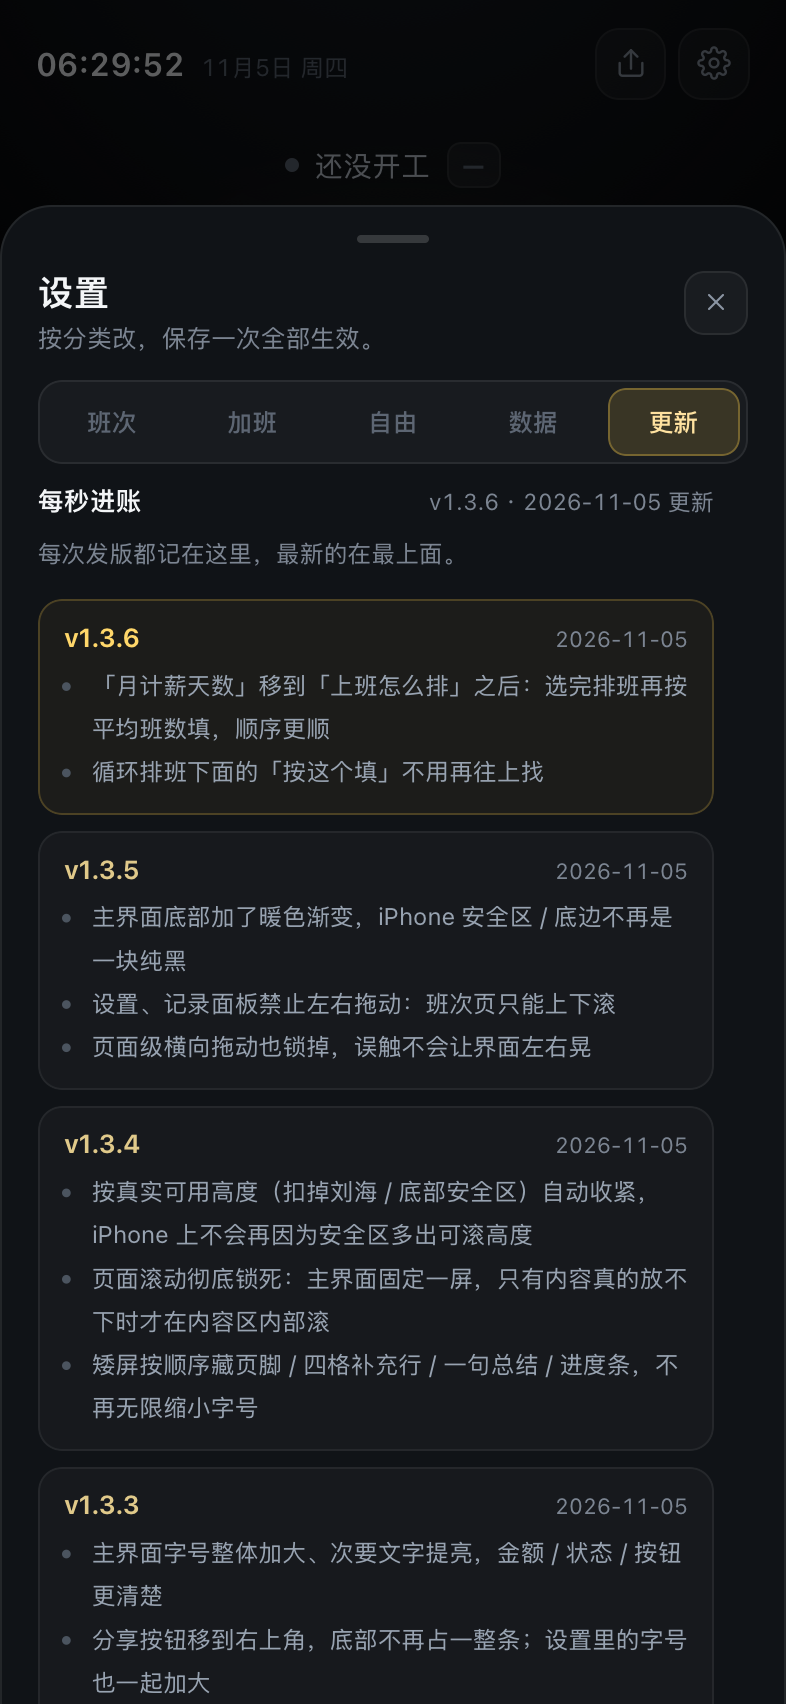
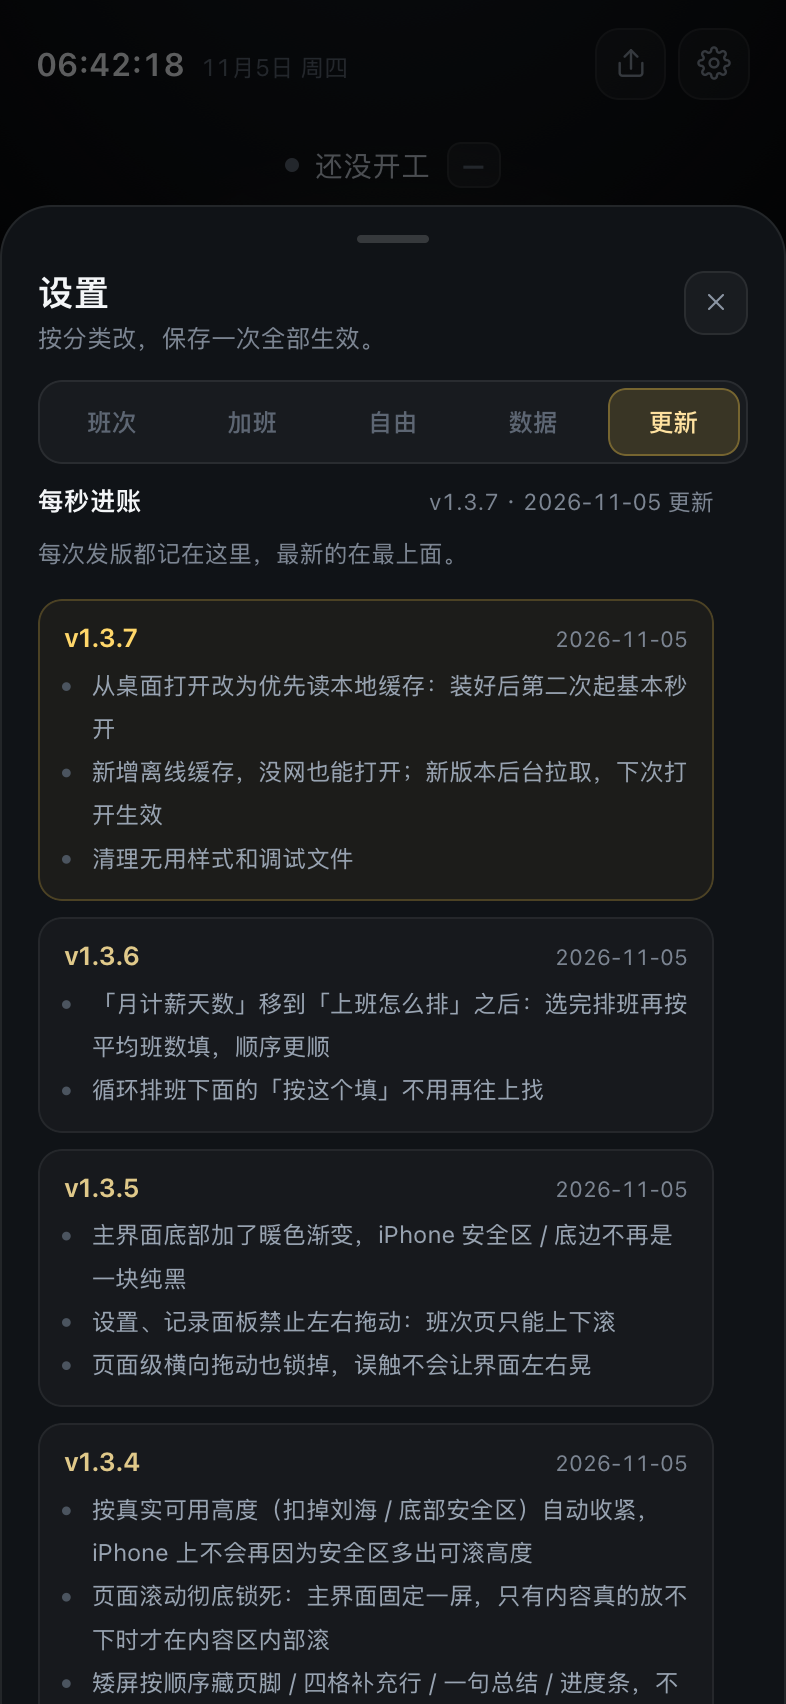
perf: cache the app shell with a service worker for instant PWA launch (v1.3.7)

diff --git a/index.html b/index.html
@@ -273,14 +273,12 @@
     padding:2px 6px;
   }
   .fun b{color:#e8c46a;font-weight:600}
-  .share{display:flex;gap:8px}
   .ghost{
     flex:1;height:44px;border-radius:14px;border:1px solid var(--line);
     background:rgba(255,255,255,.03);color:var(--muted);
     font-family:inherit;font-size:13px;font-weight:600;cursor:pointer;
     display:flex;align-items:center;justify-content:center;gap:7px;transition:.18s;
   }
-  .share .ghost{height:clamp(34px,5.2vh,44px)}
   .ghost:active{transform:scale(.98);background:rgba(255,255,255,.07)}
   .ghost svg{width:15px;height:15px;fill:none;stroke:currentColor;stroke-width:1.7;stroke-linecap:round;stroke-linejoin:round}
   .foot{text-align:center;font-size:11px;color:#6a737f;padding-top:2px;letter-spacing:.03em}
@@ -539,14 +537,6 @@
     box-shadow:0 10px 26px -14px rgba(247,178,26,.7);
   }
   .save:active{transform:scale(.99)}
-  .danger-row{display:flex;align-items:center;justify-content:center;gap:9px;padding:11px 0 0}
-  .danger-row .sep{color:#333a43;font-size:11px}
-  .danger{
-    background:none;border:0;color:#6a737f;font-family:inherit;
-    font-size:11.5px;padding:2px 0;cursor:pointer;letter-spacing:.01em;
-  }
-  .danger:active{color:var(--red)}
-
   /* ---------- 记录 ---------- */
   .log-backdrop{z-index:60}
   .log-sheet{z-index:61}
@@ -1153,8 +1143,13 @@
   }
 
   // 当前版本 + 更新日志（发版时改这里，设置面板直接渲染）
-  var APP_VERSION = "1.3.6";
+  var APP_VERSION = "1.3.7";
   var CHANGELOG = [
+    { version: "1.3.7", date: "2026-11-05", items: [
+      "从桌面打开改为优先读本地缓存：装好后第二次起基本秒开",
+      "新增离线缓存，没网也能打开；新版本后台拉取，下次打开生效",
+      "清理无用样式和调试文件"
+    ] },
     { version: "1.3.6", date: "2026-11-05", items: [
       "「月计薪天数」移到「上班怎么排」之后：选完排班再按平均班数填，顺序更顺",
       "循环排班下面的「按这个填」不用再往上找"
@@ -3289,6 +3284,14 @@
     window.addEventListener("orientationchange", function(){ setTimeout(update, 250); });
     if (window.visualViewport) window.visualViewport.addEventListener("resize", update);
   })();
+
+  if ("serviceWorker" in navigator && location.protocol !== "file:"){
+    window.addEventListener("load", function(){
+      navigator.serviceWorker.register("./sw.js").then(function(reg){
+        reg.update().catch(function(){});
+      }).catch(function(){});
+    });
+  }
 
   initSelects();
   load();

diff --git a/sw.js b/sw.js
@@ -1,0 +1,66 @@
+/* 每秒进账 · 离线缓存
+ * 每次发版把 VERSION 改成新的版本号，旧缓存会在 activate 时清掉。
+ * 页面导航先返回缓存（桌面/PWA 冷启动秒开），后台再拉一份最新的进缓存；
+ * 新版本会在下一次打开时生效。
+ */
+const VERSION = "1.3.7";
+const CACHE = "money-meter-" + VERSION;
+const CORE = [
+  "./index.html",
+  "./manifest.json",
+  "./icon.svg",
+  "./icon-192.png",
+  "./icon-512.png",
+  "./apple-touch-icon.png",
+  "./favicon-32.png"
+];
+
+self.addEventListener("install", (event) => {
+  event.waitUntil((async () => {
+    const cache = await caches.open(CACHE);
+    // 逐个 add，单个图标失败不影响整体安装
+    await Promise.all(CORE.map((url) => cache.add(url).catch(() => {})));
+    await self.skipWaiting();
+  })());
+});
+
+self.addEventListener("activate", (event) => {
+  event.waitUntil((async () => {
+    const keys = await caches.keys();
+    await Promise.all(keys.filter((k) => k !== CACHE).map((k) => caches.delete(k)));
+    await self.clients.claim();
+  })());
+});
+
+self.addEventListener("fetch", (event) => {
+  const req = event.request;
+  if (req.method !== "GET") return;
+  const url = new URL(req.url);
+  if (url.origin !== self.location.origin) return;
+
+  if (req.mode === "navigate") {
+    event.respondWith((async () => {
+      const cache = await caches.open(CACHE);
+      const cached = await cache.match("./index.html");
+      const network = fetch(req).then(async (res) => {
+        if (res && res.ok) await cache.put("./index.html", res.clone());
+        return res;
+      }).catch(() => null);
+      return cached || (await network) || Response.error();
+    })());
+    return;
+  }
+
+  event.respondWith((async () => {
+    const cache = await caches.open(CACHE);
+    const cached = await cache.match(req);
+    if (cached) return cached;
+    try {
+      const res = await fetch(req);
+      if (res && res.ok) await cache.put(req, res.clone());
+      return res;
+    } catch (e) {
+      return Response.error();
+    }
+  })());
+});

diff --git a/README.zh.md b/README.zh.md
@@ -18,6 +18,7 @@
 2. 双击 `start.command`，终端里会直接画出一个**二维码**（同时把地址复制到剪贴板）
 3. 用手机**相机**对着二维码扫一下 → 自动打开
 4. 打开后点「分享 → 添加到主屏幕」，之后桌面就有个图标，点开是全屏 App
+5. 第一次打开会建立离线缓存，**第二次起基本秒开，没网也能进**
 
 终端里长这样：
 
@@ -268,7 +269,7 @@
 
 ## 版本与更新
 
-- 当前版本 **v1.3.6**（2026-11-05）
+- 当前版本 **v1.3.7**（2026-11-05）
 - 设置分成「班次 / 加班 / 自由 / 数据 / 更新」五类；更新日志在「更新」页，有版本号、更新时间、每个版本改了什么
 - 有新版本时点设置会直接打开「更新」页，右上角齿轮也会亮一个小圆点；看过一次就不再提示
 - 屏幕够高时主界面底部也会显示版本号（矮屏收在设置 → 更新里）
@@ -294,6 +295,7 @@
 ```
 money-meter/
 ├── index.html          全部界面和逻辑（无依赖、无构建、单文件）
+├── sw.js               Service Worker：离线缓存，桌面冷启动秒开
 ├── start.command       双击起本地服务，手机同 Wi-Fi 访问
 ├── manifest.json       添加到主屏幕用的 Web App 配置
 ├── icon.svg / *.png    图标

diff --git a/README.md b/README.md
@@ -24,6 +24,7 @@ Most "salary tickers" assume your rate never changes. In reality overtime pays 1
 - **Categorized settings** — shift / overtime / freedom / data / update, each on its own tab
 - **Built-in changelog** — version, date and notes for every release; a gold dot on the gear when something new ships
 - **One-screen dashboard** — the main view scales with viewport height, so it fits a phone screen without scrolling
+- **Offline-first PWA** — a service worker caches the app; after the first visit it opens instantly, even without a network
 - **Month view** — money, days worked, overtime days, average per shift
 - **Freedom view** — 4% rule target, years until you can stop, and the two levers: save the overtime, spend less
 
